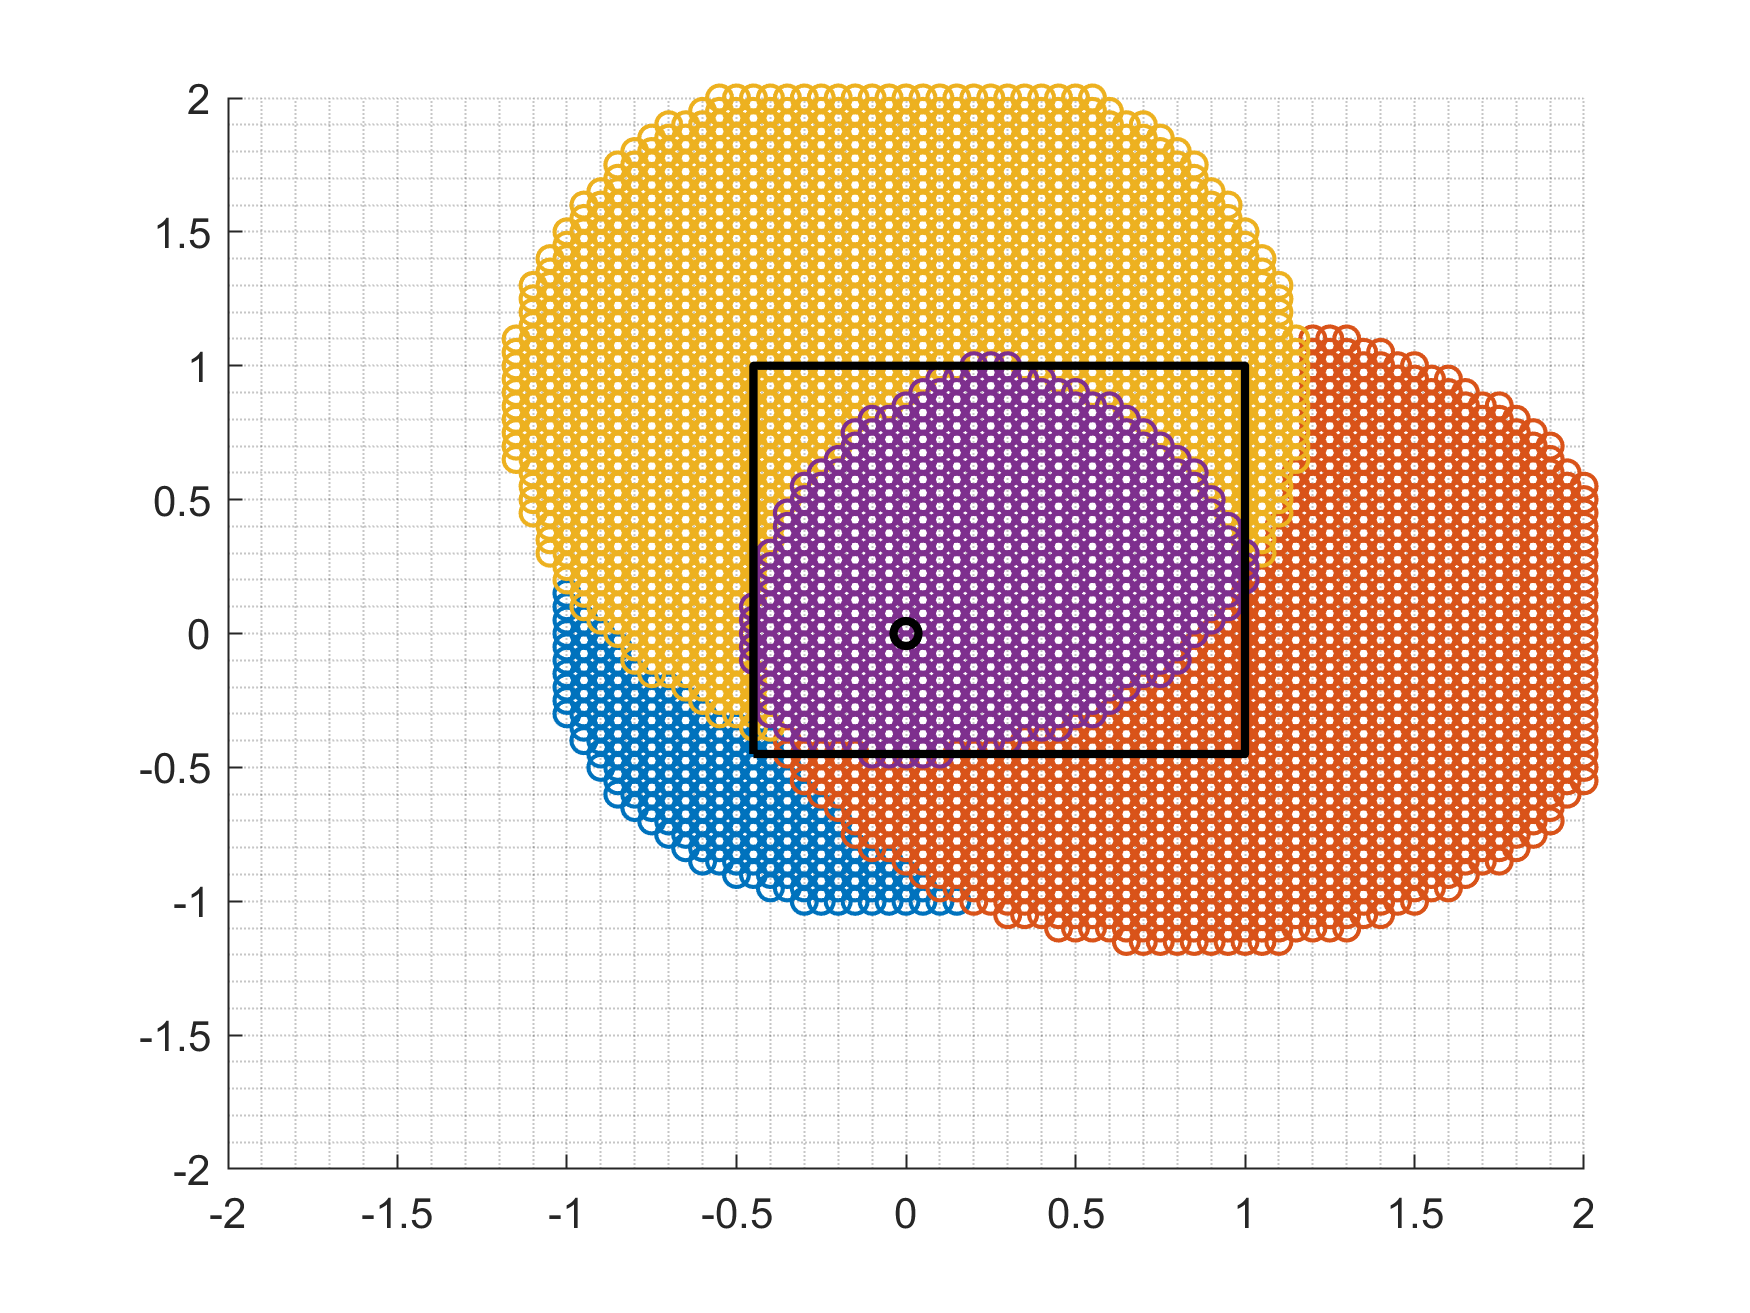
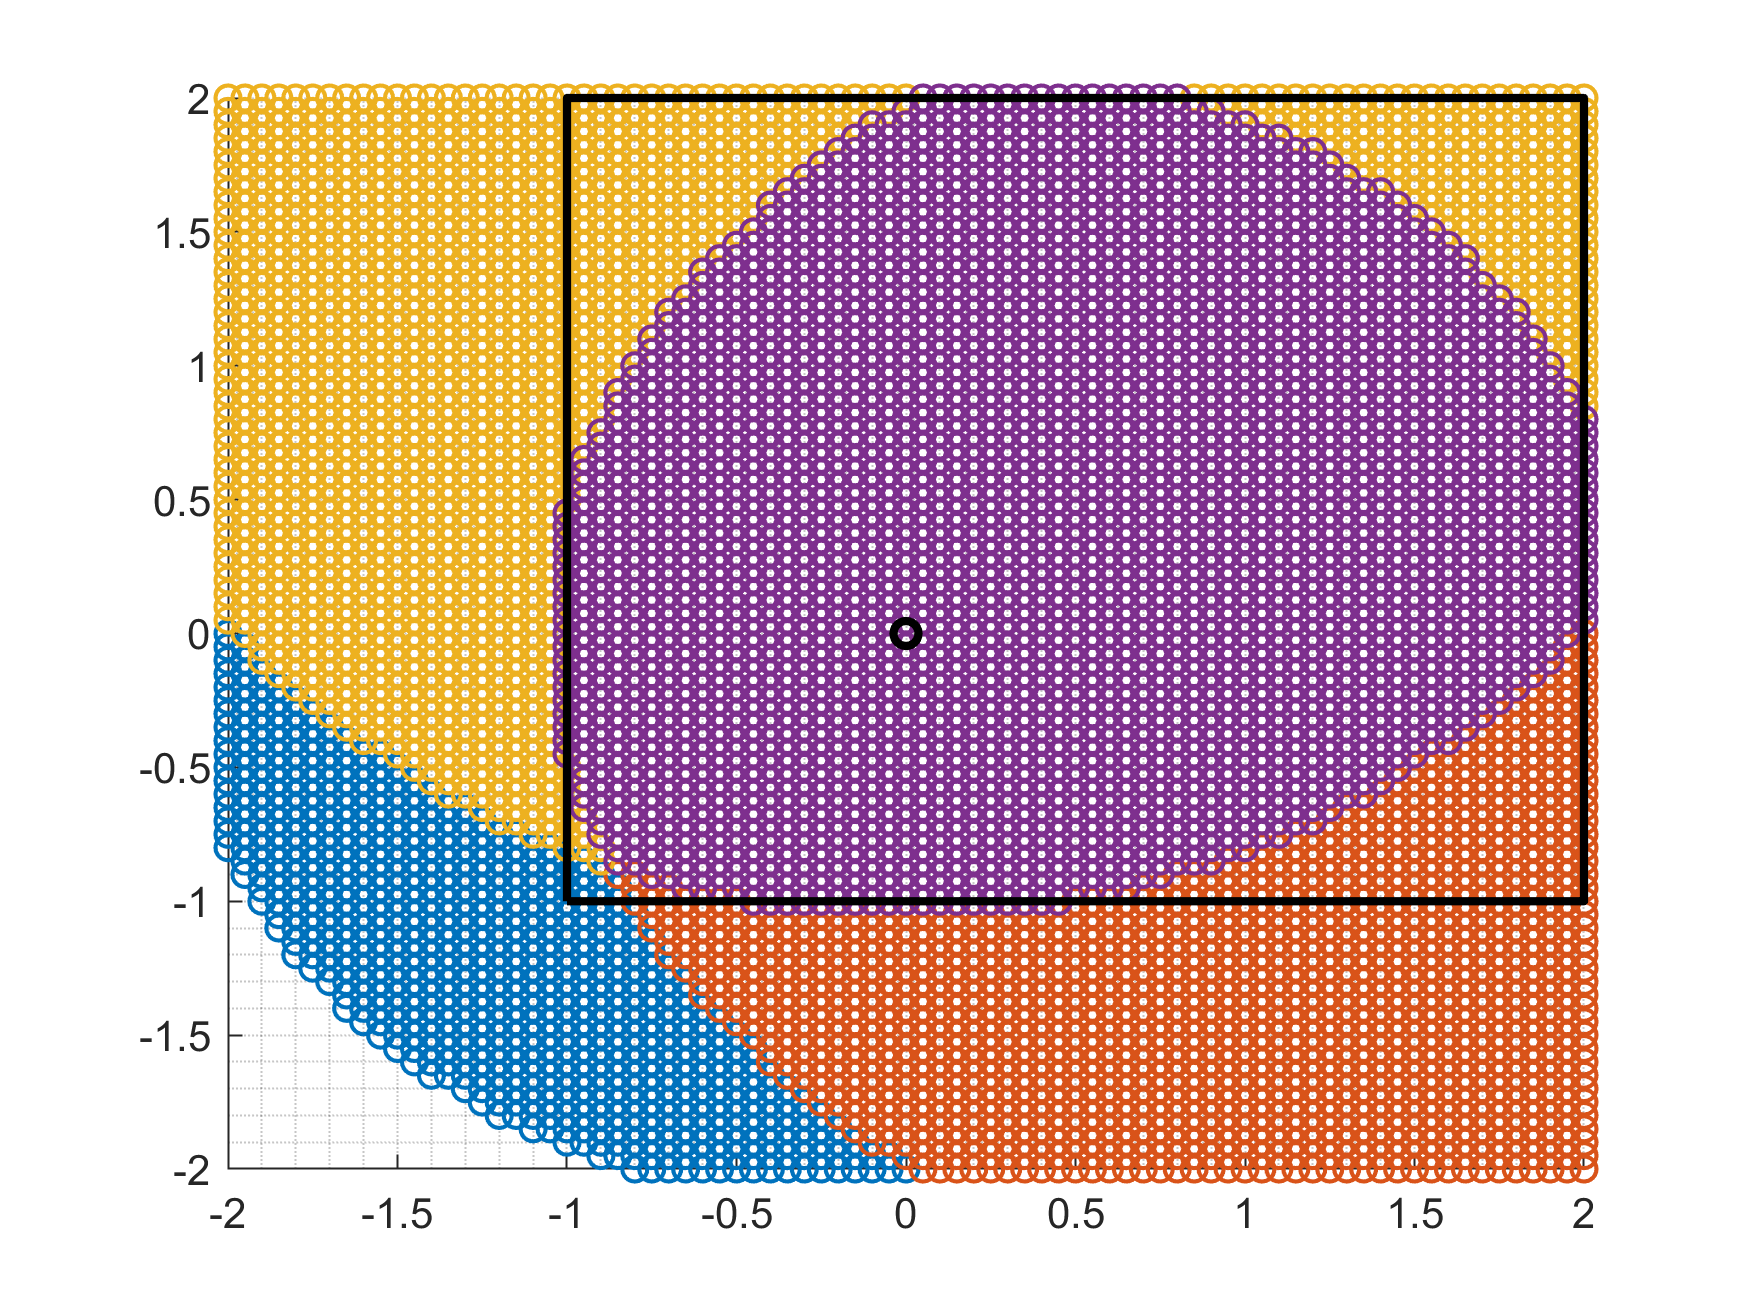
progress simulations

diff --git a/icc2026/MATLAB OWC-assited by OWP/owp_experiments/BB_calculate_ratios.m b/icc2026/MATLAB OWC-assited by OWP/owp_experiments/BB_calculate_ratios.m
@@ -1,0 +1,169 @@
+clc, clear all, close all
+
+colorsMATLAB = [0.0000 0.4470 0.7410 ;... 
+                0.8500 0.3250 0.0980 ;...
+                0.9290 0.6940 0.1250 ;...
+                0.4940 0.1840 0.5560 ;...
+                0.4660 0.6740 0.1880 ;...
+                0.3010 0.7450 0.9330 ;...
+                0.6350 0.0780 0.1840];
+
+data = readtable('database.csv');
+unique_positions = unique(data(:, {'x', 'y', 'z'}), 'rows');
+n_positions = height(unique_positions);
+h = 2 - 0.75; % diferencia de alturas entre T y R.
+T = [0.4,0.4,0]';
+T_c = [0,0,0]';
+fprintf('Total de posiciones únicas: %d\n\n', n_positions);
+
+% ===============================================
+% IMPORTANTE: CALIBRACIÓN DE LAS ORIENTACIONES
+% ===============================================
+% Cartesian coordinates of the orientations vectors
+n_t(1,:)=[0,0,-1];
+
+n_t(2,:)=[-sind(20),0,-cosd(20)]; 
+% Calibrar este angulo, verificar!, en 15 el error es pequeño
+% esto puede deberse a una inclinación o algun desfase, etc.
+
+n_t(3,:)=[0,-sind(20),-cosd(20)];
+
+a_i = n_t(1,1); b_i = n_t(1,2); c_i = n_t(1,3);
+a_j = n_t(2,1); b_j = n_t(2,2); c_j = n_t(2,3);
+a_k = n_t(3,1); b_k = n_t(3,2); c_k = n_t(3,3);
+
+% m_t = 1.43; %mejor con un background de V_bg = 0; nt_2=20
+m_t = 1.52; %mejor con un background de V_bg = 0.04; nt_2=18
+V_bg = 0.04;
+results = [];
+
+% for m_t = 1:0.01:4  % puedo añadir la busqueda para el menor RMSE
+for m_t = 1.52
+
+pos_true = zeros(n_positions,3);
+pos_est_owp = zeros(n_positions,3);
+
+% Evaluacion por cada posicion
+for p = 1:n_positions
+    pos_x = unique_positions.x(p);
+    pos_y = unique_positions.y(p);
+    pos_z = unique_positions.z(p);
+    
+    pos_true(p,:) = [pos_x, pos_y, -h ];
+    % Filtrar datos para esta posición
+    pos_data = data(data.x == pos_x & data.y == pos_y & data.z == pos_z, :);    
+    % Ordenar por orientación (asumiendo K1, K2, K3 en orden de inclinación y azimuth)
+    pos_data = sortrows(pos_data, {'inclinacion', 'azimuth'});
+    
+    % Extraer voltajes (mean) de la tabla
+    V_k1 = pos_data.mean(1) + V_bg;
+    V_k2 = pos_data.mean(2) + V_bg;
+    V_k3 = pos_data.mean(3) + V_bg;
+    
+    % Calcular ratios
+%     b_k2_val = V_k2 / V_k1;
+%     b_k3_val = V_k3 / V_k1;
+
+%     % Mostrar información
+%     fprintf('Posición %d: (%.2f, %.2f, %.2f)\n', p, pos_x, pos_y, pos_z);
+%     fprintf('  V_K1 = %.4f V\n', V_k1);
+%     fprintf('  V_K2 = %.4f V\n', V_k2);
+%     fprintf('  V_K3 = %.4f V\n', V_k3);
+%     fprintf('  b_K2 = V_K2/V_K1 = %.4f\n', b_k2_val);
+%     fprintf('  b_K3 = V_K3/V_K1 = %.4f\n\n', b_k3_val);
+
+    
+    % Ratios
+    K_ij = (V_k1/V_k2)^(1/m_t);
+    K_jk = (V_k2/V_k3)^(1/m_t);
+    K_ik = (V_k1/V_k3)^(1/m_t);
+
+    % Bastian SVD
+    alpha_ij = a_i - K_ij*a_j;
+    alpha_jk = a_j - K_jk*a_k;
+    alpha_ik = a_i - K_ik*a_k;
+    beta_ij = b_i - K_ij*b_j;
+    beta_jk = b_j - K_jk*b_k;
+    beta_ik = b_i - K_ik*b_k;
+    gamma_ij = c_i - K_ij*c_j;
+    gamma_jk = c_j - K_jk*c_k;
+    gamma_ik = c_i - K_ik*c_k;
+
+    eigenVectorsSVD  = null( [alpha_ij, beta_ij, gamma_ij;
+                                      alpha_jk, beta_jk, gamma_jk;
+                                      alpha_ik, beta_ik, gamma_ik]);
+
+
+    n_d = -eigenVectorsSVD;
+    escale = -h/n_d(3);
+    pos_est_owp(p,:) = (T + escale*n_d)';
+end
+
+% Calcular errores
+errors = sqrt(sum((pos_true - pos_est_owp).^2, 2))*100;
+rmse = sqrt(mean(errors.^2));
+% fprintf('RMSE: %.2f cm\n', rmse);
+% fprintf('APE: %.2f cm\n', mean(errors));
+% fprintf('MAX: %.2f cm\n', max(errors));
+% fprintf('MIN: %.2f cm\n', min(errors));
+fprintf('RMSE: %.2f cm, m_t: %.2f \n', rmse, m_t);
+
+results = [results; m_t rmse];
+end
+
+best = results(find(results(:,2)==min(results(:,2))),:)
+m_t = best(1)
+
+%%
+disp("================================================")
+fprintf('m_t: %.2f \n', m_t);
+fprintf('RMSE: %.2f cm\n', rmse);
+fprintf('APE: %.2f cm\n', mean(errors));
+fprintf('MAX: %.2f cm\n', max(errors));
+fprintf('MIN: %.2f cm\n', min(errors));
+
+bed = [-0.75,0.75,-0.75,0.75];
+step= 0.25;
+[TbX,TbY] = meshgrid(bed(1):step:bed(2), bed(3):step:bed(2) );
+
+
+figure(1)
+hold on
+% Graficar posiciones
+plot3(pos_true(:,1),pos_true(:,2),pos_true(:,3),'ko','DisplayName','true','MarkerFaceColor',colorsMATLAB(1,:))
+plot3(pos_est_owp(:,1),pos_est_owp(:,2),pos_est_owp(:,3),'o','DisplayName','est')
+% Graficar posiciones del transmisor
+plot3(T(1),T(2),T(3),'ko','DisplayName','Transmisor T','MarkerFaceColor',colorsMATLAB(4,:))
+plot3(T_c(1),T_c(2),T_c(3),'o','DisplayName','Centro T_c')
+
+% Añadir líneas punteadas entre posición real y estimada
+for i = 1:n_positions
+    plot3([pos_true(i,1), pos_est_owp(i,1)], ...
+          [pos_true(i,2), pos_est_owp(i,2)], ...
+          [pos_true(i,3), pos_est_owp(i,3)], ...
+          'k--');
+end
+plot(TbX,TbY,'o','Color',[0.2 0.2 0.2 0.5],'LineWidth',0.5)
+
+r_phi_c=h*tand(40);
+%circulo de referencia
+
+viscircles(T(1:2)', r_phi_c, 'Color', [0.2 0.2 0.2 0.5],'LineWidth',0.2);
+
+text( T(1)+r_phi_c , T(2), 'phi=40', ...
+     'HorizontalAlignment', 'center', ...
+     'VerticalAlignment', 'middle', ...
+     'FontSize', 10, ...
+     'Color', [0.2 0.2 0.2 0.5]);
+
+axis([-2 2 -2 2 -2 0])
+xlabel('X [m]')
+ylabel('Y [m]')
+zlabel('Z [m]')
+legend('ground truth','estimation','AP OWP')
+grid minor
+
+%%
+figure(1);
+set(gcf, 'Color', 'white');
+print(fullfile('figures', 'estimation.png'), '-dpng', '-r300');

diff --git a/icc2026/MATLAB OWC-assited by OWP/owp_experiments/optimization/model.m b/icc2026/MATLAB OWC-assited by OWP/owp_experiments/optimization/model.m
@@ -1,0 +1,89 @@
+function rmse = model(set)
+
+% Intrasture
+T = [0.4,0.4,0];
+h = 2 - 0.75;
+
+% Set of K-orientation (K=3)
+% inclination, azimuth
+Ndir = length(set)/2;
+
+for i_dir = 1:Ndir
+    incl = set(i_dir*2-1);
+    azim = set(i_dir*2);
+    n_t(i_dir,:)=[sind(incl)*cosd(azim), sind(incl)*sind(azim), -cosd(incl)];
+end
+
+
+% n_t(1,:)=[0,0,-1]
+% n_t(2,:)=[-sind(incl),0,-cosd(incl)]
+% n_t(3,:)=[0,-sind(incl),-cosd(incl)]
+
+
+n_r = [0,0,1];
+
+% create points to evaluate
+x = -1:0.25:0;
+y = -1:0.25:0;
+[px,py] = meshgrid(x,y);
+px = px(:); py=py(:);
+pos = [px,py];
+Npos = size(pos,1);
+
+% Parameters
+Pt = 0.405;
+Rp = 0.6;
+m = 1.52;
+p = 4.8e-3; q = 5.5e-3; 
+N_det = 1; 
+A_det = p*q*N_det;
+
+sigma2 = 30e6*10^(-21.0);
+
+% Model
+S=cell(Npos,Ndir);
+for i_pos = 1:Npos
+    for i_dir = 1:Ndir
+        
+        R = [pos(i_pos,:),-h];
+        v_tr = (R-T)./norm(R-T);
+        d = norm(R-T);
+        cos_phi = dot(n_t(i_dir,:),v_tr);
+        phi = acosd(cos_phi);
+        cos_psi = dot(n_r,-v_tr);
+        
+        C = (m+1)*A_det/(2*pi); % constant
+        %g_phi = cos_phi^m; % modelo de irradianza del LED
+        g_phi = irradiance(phi,'poly');
+
+        h_LOS = C*g_phi*cos_psi./d^2;
+        w = sqrt(sigma2).*randn(1,1000);
+        S{i_pos,i_dir} = Rp*Pt*h_LOS + w;
+    end
+end
+
+
+pos_est = zeros(Npos,3);
+for i_pos = 1:Npos
+    
+    V_n1 = mean(S{i_pos,1});  V_n1 = min(max(V_n1, 0.00000001), 100);
+    V_n2 = mean(S{i_pos,2});  V_n2 = min(max(V_n2, 0.00000001), 100);
+    V_n3 = mean(S{i_pos,3});  V_n3 = min(max(V_n3, 0.00000001), 100);
+
+    try
+        n_d = estimate_direction([V_n1,V_n2,V_n3], n_t, m, 'svd');
+        escale = -h/n_d(3);
+        pos_est(i_pos,:) = T + escale*n_d;
+    catch
+        % En el peor de los casos le coloco una posicion lejana
+        n_d = [0,0,0];
+        pos_est(i_pos,:)= [10,10,10];
+    end
+
+end
+
+errors = sqrt(sum((pos - pos_est(:,1:2)).^2, 2))*100;
+rmse = sqrt(mean(errors.^2));
+
+
+end

diff --git a/icc2026/MATLAB OWC-assited by OWP/owp_experiments/CC_simulation_polinomial.m b/icc2026/MATLAB OWC-assited by OWP/owp_experiments/CC_simulation_polinomial.m
@@ -15,7 +15,10 @@ h = 2 - 0.75;
 % Set of K-orientation (K=3)
 % inclination, azimuth
 % set = [20,180,0,0,20,270];
-set = [30,225,50,200,50,245]; % Cover another cuarter
+% set = [30,225,50,200,50,245]; % Cover another cuarter
+% set = [29.0000  225.0000   59.0000  207.0000   59.0000  243.0000];
+set = [66.0000  225.0000   32.0000  200.0000   32.0000  250.0000];
+
 Ndir = length(set)/2;
 
 for i_dir = 1:Ndir
@@ -33,8 +36,8 @@ end
 n_r = [0,0,1];
 
 % create points to evaluate
-x = -0.75:0.25:0.75;
-y = -0.75:0.25:0.75;
+x = -1:0.25:0;
+y = -1:0.25:0;
 [px,py] = meshgrid(x,y);
 px = px(:); py=py(:);
 pos = [px,py];

diff --git a/icc2026/MATLAB OWC-assited by OWP/owp_experiments/optimization/test_function.m b/icc2026/MATLAB OWC-assited by OWP/owp_experiments/optimization/test_function.m
@@ -1,0 +1,25 @@
+
+clear all, close all, clc
+
+% set = [20,180,0,0,20,270];
+% set = [30,225,50,200,50,245]; % Cover another cuarter
+
+
+
+results = [];
+
+for i_1 = 20:70
+    for i_2 = 30:60
+        for i_3 =  5:45
+            set = [i_1,225,i_2,225-i_3,i_2,225+i_3];
+            rmse = model(set);
+            results = [results; rmse set];
+        end
+    end
+end
+
+best = results(find(results(:,1)==min(results(:,1))),:)
+
+% rmse : [set]
+% 5.2966 :  66.0000  225.0000   32.0000  200.0000   32.0000  250.0000
+% 4.3728   29.0000  225.0000   59.0000  207.0000   59.0000  243.0000
